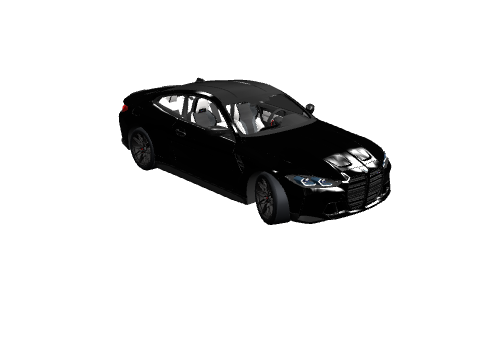
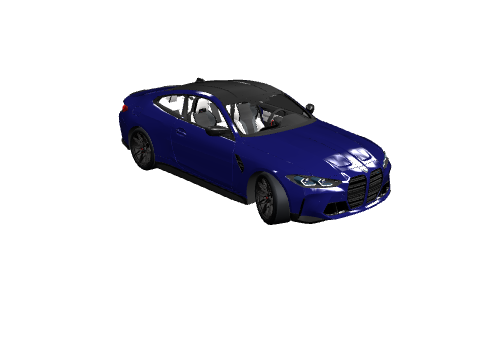
Big Q: midnight-blue exterior paint (body panels only)
The BMW M4 (sk-bmw-m4.glb) is a baked-atlas model with generic material
names, so its paint couldn't be tinted. Identified Material_692 as the solid
glossy body-paint material — used ONLY by the Body + both Door meshes, so
recolouring it leaves headlights, glass, grille, wheels, taillights and the
carbon roof untouched (verified by rendering diagnostic + final passes).

Wire it in like the E30: add sk-bmw-m4 to TINTABLE + TINT_MAT, and give Big Q
defaultTint #191970. Re-rendered big-q.png thumbnail to match.

Changed region(s): [[0.25, 0.2444, 0.8125, 0.6111], [0.5312, 0.3056, 0.5625, 0.3361]]

diff --git a/public/car3d.js b/public/car3d.js
@@ -106,9 +106,11 @@ const modelCache = new Map(); // file -> Promise<THREE.Group>
 // ── Body recolour — only for simple flat-material cars that tint cleanly ─────
 const TINTABLE = new Set(['sedan.glb','sedan-sports.glb','hatchback-sports.glb','suv.glb','suv-luxury.glb','van.glb','race.glb','race-future.glb',
   // realistic cars hand-mapped below (they have a flat-colour paint material that recolours cleanly)
-  'sk-e30.glb','sk-phoenix.glb','sk-londonbus.glb']);
+  'sk-e30.glb','sk-phoenix.glb','sk-londonbus.glb','sk-bmw-m4.glb']);
 // For hand-mapped realistic cars, recolour ONLY this named material (their body paint).
-const TINT_MAT = { 'sk-e30.glb':'BMW_E30_M3_PAINT', 'sk-phoenix.glb':'Phoenix445_Bodymat', 'sk-londonbus.glb':'van_paint_2' };
+// sk-bmw-m4: Material_692 is the solid glossy body paint — used ONLY by the Body +
+// Door meshes, so tinting it leaves headlights/glass/grille/wheels/carbon-roof intact.
+const TINT_MAT = { 'sk-e30.glb':'BMW_E30_M3_PAINT', 'sk-phoenix.glb':'Phoenix445_Bodymat', 'sk-londonbus.glb':'van_paint_2', 'sk-bmw-m4.glb':'Material_692' };
 let _tint = '';
 try{ _tint = localStorage.getItem('carTint') || ''; }catch(_){}
 function _tintTargets(root, file){

diff --git a/public/app.js b/public/app.js
@@ -3822,7 +3822,7 @@ const CARS=[
   // ── Realistic fleet (Sketchfab, CC-BY — see CREDITS.md) ──────────────────
   {id:'amg-e63',    name:'AMG E63 S (Matte)',emoji:'🖤', model:'sk-amg-e63-matte.glb', fn:_d3Marker, d3:true},
   {id:'lambo-svj',  name:'Lamborghini SVJ',emoji:'🏎', model:'sk-lambo-svj.glb',   fn:_d3Marker, d3:true},
-  {id:'big-q',      name:'Big Q',          emoji:'🚙', model:'sk-bmw-m4.glb',     fn:_d3Marker, d3:true},
+  {id:'big-q',      name:'Big Q',          emoji:'🚙', model:'sk-bmw-m4.glb',     fn:_d3Marker, d3:true, defaultTint:'#191970'},
   {id:'ferrari',    name:'Ferrari',        emoji:'🏎', model:'ferrari.glb',        fn:_d3Marker, d3:true},
   {id:'pony',       name:'GT Sport',       emoji:'🏎', model:'sk-pony.glb',        fn:_d3Marker, d3:true},
   {id:'f40',        name:'F40 LM',         emoji:'🏎', model:'sk-f40.glb',         fn:_d3Marker, d3:true},
